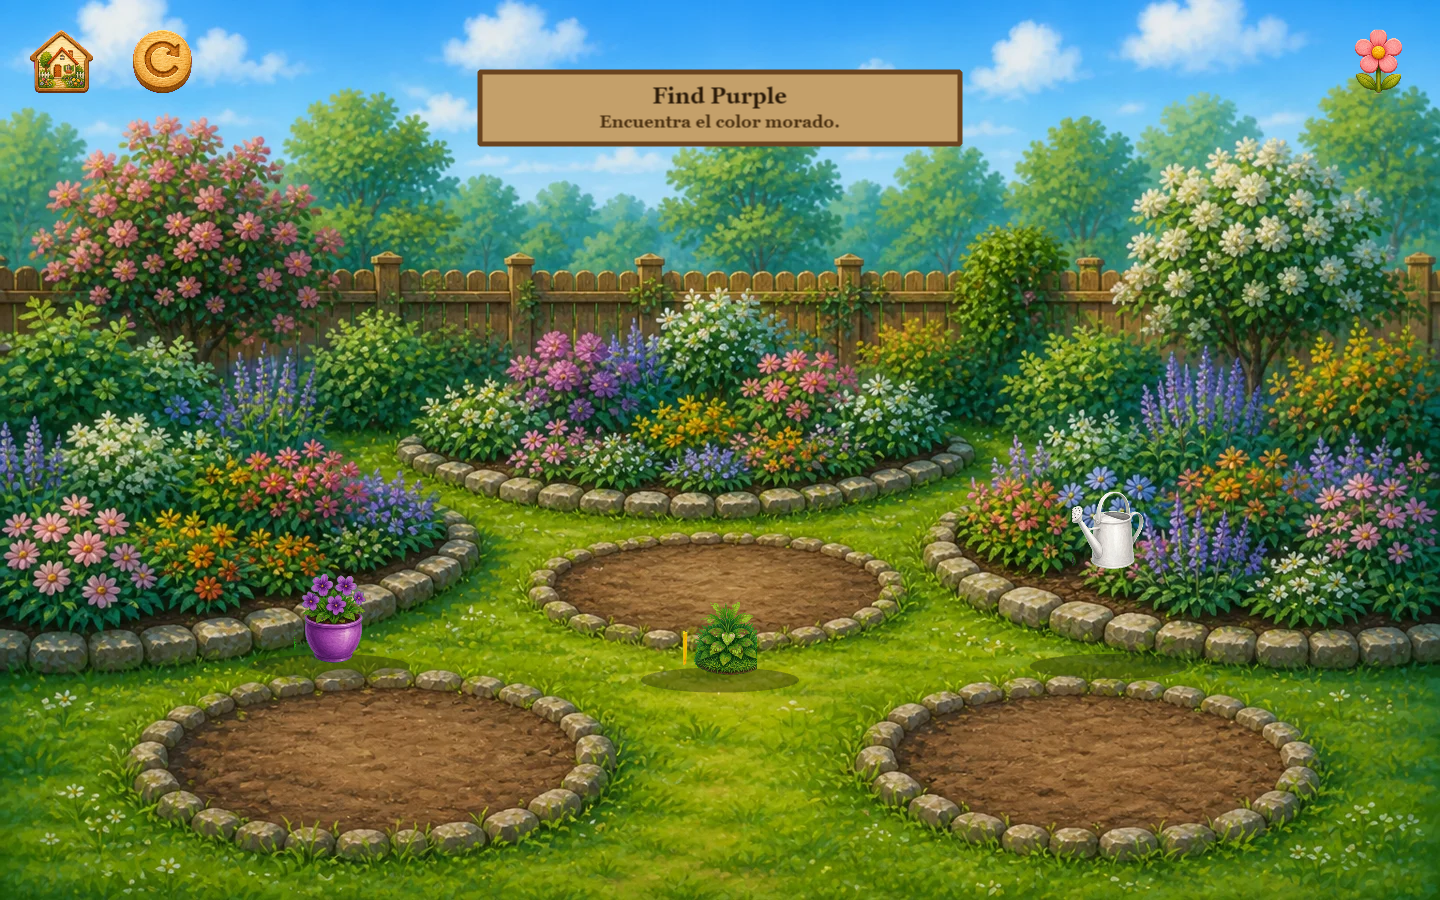
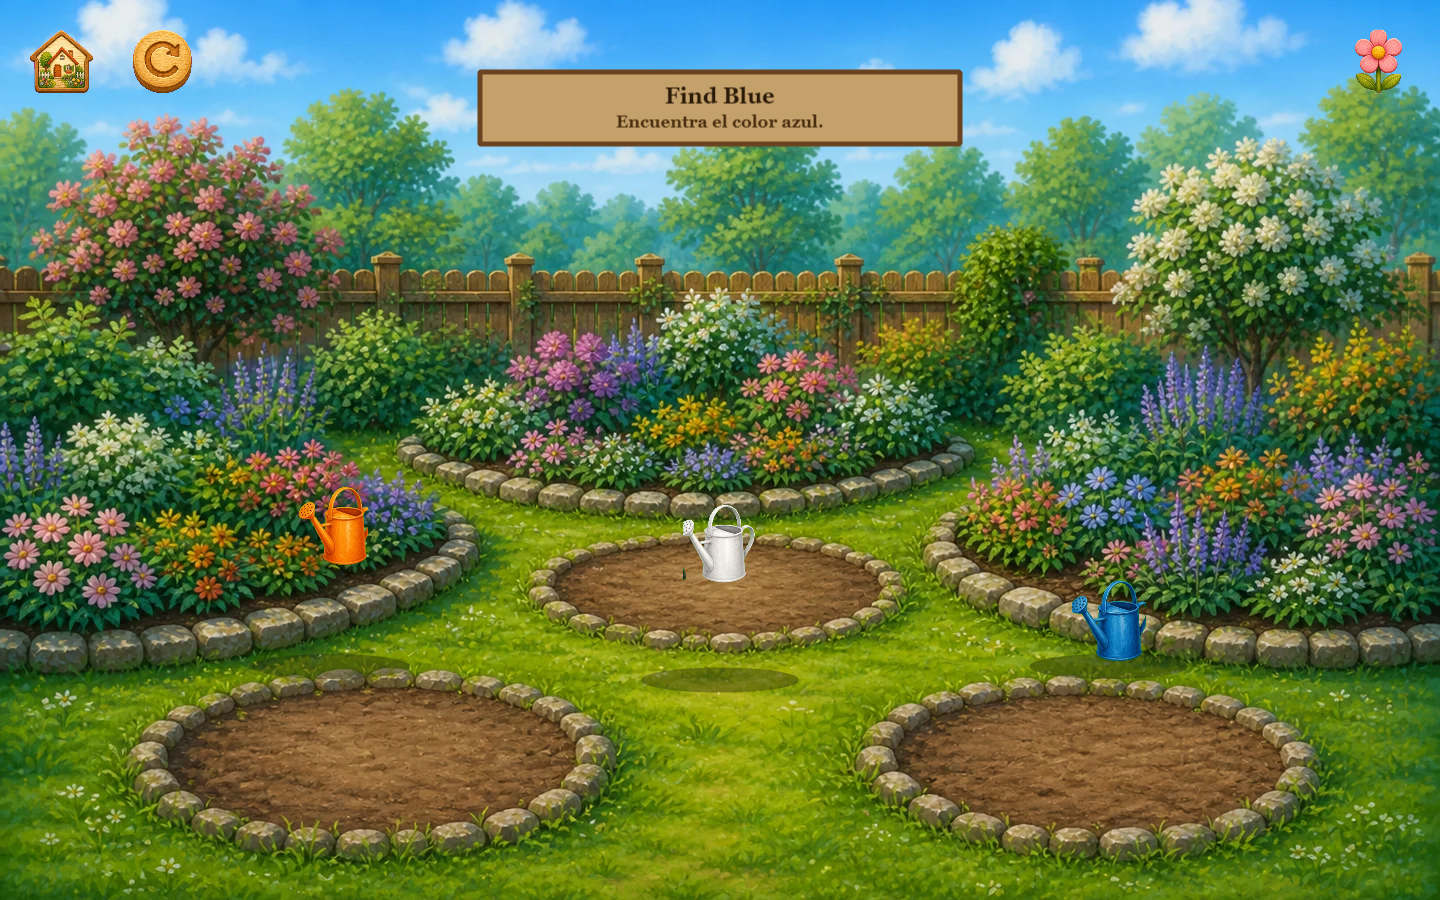
Recalibrate Color Garden props into front soil beds at toddler size.

diff --git a/app/phaser-poc/game/layouts.ts b/app/phaser-poc/game/layouts.ts
@@ -42,25 +42,25 @@ export const CHOICE_SLOTS: Record<PocAspect, [Norm, Norm, Norm]> = {
 
 /**
  * Color Garden — feet anchors in the center of each front soil bed
- * (left / center / right). Do not reuse Find Friend meadow slots.
+ * (left / center / right). Calibrated to cover-mode mural at 1440×900 / 390×844.
  */
 export const COLOR_BED_SLOTS: Record<PocAspect, [Norm, Norm, Norm]> = {
   landscape: [
-    { x: 0.23, y: 0.745, scale: 1 },
-    { x: 0.5, y: 0.76, scale: 1 },
-    { x: 0.77, y: 0.745, scale: 1 },
+    { x: 0.2, y: 0.855, scale: 1 },
+    { x: 0.5, y: 0.875, scale: 1 },
+    { x: 0.8, y: 0.855, scale: 1 },
   ],
   portrait: [
-    { x: 0.24, y: 0.7, scale: 1 },
-    { x: 0.5, y: 0.715, scale: 1 },
-    { x: 0.76, y: 0.7, scale: 1 },
+    { x: 0.28, y: 0.62, scale: 1 },
+    { x: 0.72, y: 0.62, scale: 1 },
+    { x: 0.5, y: 0.84, scale: 1 },
   ],
 };
 
-/** Color Garden visible prop size targets (px at reference layout). */
+/** Color Garden visible prop size targets (px at live canvas). */
 export const COLOR_CHOICE_SIZE = {
-  landscape: { min: 150, target: 185, max: 220, touch: 140 },
-  portrait: { min: 110, target: 135, max: 160, touch: 110 },
+  landscape: { min: 170, target: 200, max: 220, touch: 140 },
+  portrait: { min: 120, target: 145, max: 160, touch: 110 },
 } as const;
 
 export const CHAR_HEIGHT_FRAC = 0.2;

diff --git a/app/phaser-poc/game/scenes/ColorGardenScene.ts b/app/phaser-poc/game/scenes/ColorGardenScene.ts
@@ -80,8 +80,7 @@ export class ColorGardenScene extends ChoiceScene {
 
   protected choiceTargetHeightPx(): number | null {
     const spec = COLOR_CHOICE_SIZE[this.aspect];
-    // Scale with live canvas while staying in toddler size band
-    const fromFrac = this.aspect === "landscape" ? this.worldH * 0.205 : this.worldH * 0.16;
+    const fromFrac = this.aspect === "landscape" ? this.worldH * 0.24 : this.worldH * 0.185;
     return Math.min(spec.max, Math.max(spec.min, Math.round(fromFrac)));
   }
 
